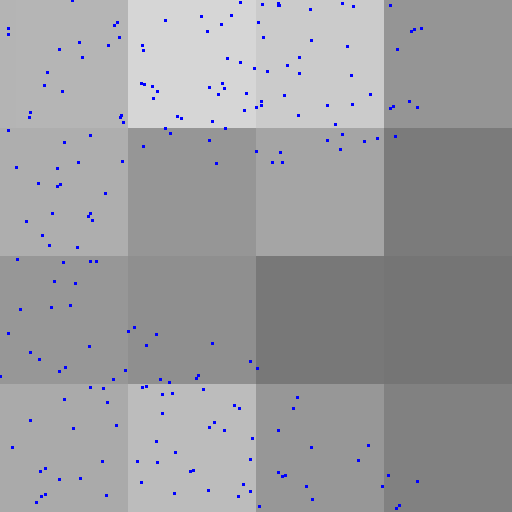
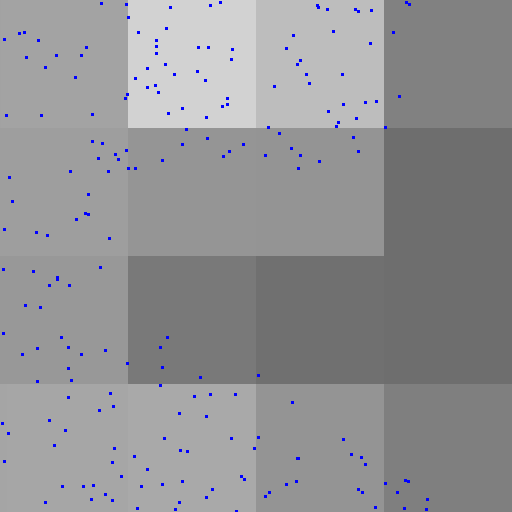
Readability update nothing really...

diff --git a/PathGuidingDissertation/Renderer.h b/PathGuidingDissertation/Renderer.h
@@ -36,6 +36,9 @@
 // Enable NEE or not for Incoming Radiance (Li)
 constexpr bool enableNEE = true;
 
+// Is PointBVH built?
+static bool isPointBVHBuilt = false;
+
 // Max Bounces
 static const int MAX_DEPTH = 8;
 
@@ -1000,7 +1003,7 @@ public:
 		thread_local std::vector<ForwardPassRecord> records;
 		thread_local std::vector<const PathVertex*> nearbyVertices;
 		// thread_local std::priority_queue<NearestPathVertex> maxHeap;
-		HeapKNNQueue<MAX_NEARBY_VERTICES> maxHeap;
+		thread_local HeapKNNQueue<MAX_NEARBY_VERTICES> maxHeap;
 		records.reserve(10);                          // Max depth: 8, + 2 buffer space
 		nearbyVertices.reserve(MAX_NEARBY_VERTICES);  // Pre-allocate max number of wanted vertices
 		
@@ -1028,9 +1031,12 @@ public:
 					if (pathVertex.Li.isValid() && pathVertex.Li.Lum() > 0) pathVertices.push_back(pathVertex);
 				}
 			}
-			// Update the incoming and guiding radiance so that Li-1 can use this previous Li
-			Colour emissionAndDirect = enableNEE ? (records[i].misEmission + records[i].directLighting) : records[i].emission;
-			guidingRadiance = emissionAndDirect + (records[i].bsdfWeight * guidingRadiance);
+			// Update Accumulators
+			if (enableNEE) {
+				guidingRadiance = records[i].misEmission + records[i].directLighting + (records[i].bsdfWeight * guidingRadiance);
+			} else {
+				guidingRadiance = records[i].emission + (records[i].bsdfWeight * guidingRadiance);
+			}
 		}
 		return guidingRadiance.isValid() ? guidingRadiance : Colour(0.f, 0.f, 0.f);
 	}
@@ -1582,6 +1588,25 @@ public:
 		// Increment SPP and define Atomic ID Counter to battle race conditions
 		film->incrementSPP();
 		std::atomic<int> id = 0;
+		bool isGuidingPhase = (getSPP() >= learningThreshold);
+
+		#if GUIDED_PATH
+		// Build the BVH exactly once, after collecting cache estimates in the learning phase
+		if (isGuidingPhase && !isPointBVHBuilt) {
+			std::cout << "Learning phase finished. Building BVH for cached path vertices..." << std::endl;
+			std::cout << "Total cached path vertices: " << globalCacheList.size() << std::endl;
+
+			if (cacheBVH) delete cacheBVH;
+			cacheBVH = new PointBVH();
+			cacheBVH->build(std::move(globalCacheList));
+
+			// Clear Global Cache Estimates List
+			globalCacheList.clear();
+			globalCacheList.shrink_to_fit();
+			std::cout << "BVH built successfully. Entering guiding phase..." << std::endl;
+			isPointBVHBuilt = true;
+		}
+		#endif
 
 		// Get total tile count
 		unsigned int tile_size = 32;
@@ -1589,14 +1614,11 @@ public:
 		unsigned int tiles_y = (film->height + tile_size - 1u) / tile_size;
 		unsigned int total_tile_count = tiles_x * tiles_y;
 
-		// Are we in the learning phase or guiding phase?
-		std::atomic<bool> isGuidingPhase = (getSPP() >= learningThreshold);
-
 		// Threads
 		for (unsigned int i = 0; i < numProcs; ++i) {
 			threads[i] = new std::thread(
 				// Capture i by value, not reference, or else samplers[i] will go out of bounds!
-				[&, i]() {
+				[&, i, isGuidingPhase]() {
 					// Lambda function to render tiles
 					unsigned int tile_id = 0;
 					std::vector<PathVertex>& currentThreadPathVertexRecords = perThreadPathVertexRecords[i];
@@ -1641,9 +1663,6 @@ public:
 								// Check for NaN/Inf values and then Splat, Tonemap, and Draw to Pixel
 								if (!col.isValid()) continue;
 								film->splat(px, py, col);
-								unsigned char r, g, b;
-								film->tonemap(x, y, r, g, b);
-								canvas->draw(x, y, r, g, b);
 							}
 						}
 					}
@@ -1655,6 +1674,15 @@ public:
 		for (unsigned int i = 0; i < numProcs; ++i) {
 			threads[i]->join();
 			delete threads[i];
+		}
+
+		// Draw the pixels on canvas sequentially to avoid race conditions
+		for (unsigned int y = 0; y < film->height; ++y) {
+			for (unsigned int x = 0; x < film->width; ++x) {
+				unsigned char r, g, b;
+				film->tonemap(x, y, r, g, b);
+				canvas->draw(x, y, r, g, b);
+			}
 		}
 
 		#if GUIDED_PATH
@@ -1705,9 +1733,8 @@ public:
 				perThreadStats[i] = ProfilerStats();
 			}
 		}
-
 		// --- Learning Phase ---
-		if (!isGuidingPhase) {
+		else {
 			// Get the total size and allocate space on the global cache list
 			size_t total_size = 0;
 			for (auto& pathVertexRecords : perThreadPathVertexRecords) {
@@ -1726,21 +1753,7 @@ public:
 
 				// Free up the memory for the current thread's records
 				recordsList.clear();
-				recordsList.shrink_to_fit();
 			}
-		}
-
-		// Build the BVH exactly once, after collecting cache estimates in the learning phase
-		if ((getSPP() == learningThreshold - 1)) {
-			std::cout << "Learning phase finished. Building BVH for cached path vertices..." << std::endl;
-			std::cout << "Total cached path vertices: " << globalCacheList.size() << std::endl;
-			cacheBVH = new PointBVH();
-			cacheBVH->build(std::move(globalCacheList));
-
-			// Clear Global Cache Estimates List
-			globalCacheList.clear();
-			globalCacheList.shrink_to_fit();
-			std::cout << "BVH built successfully. Entering guiding phase..." << std::endl;
 		}
 		#endif
 	}
